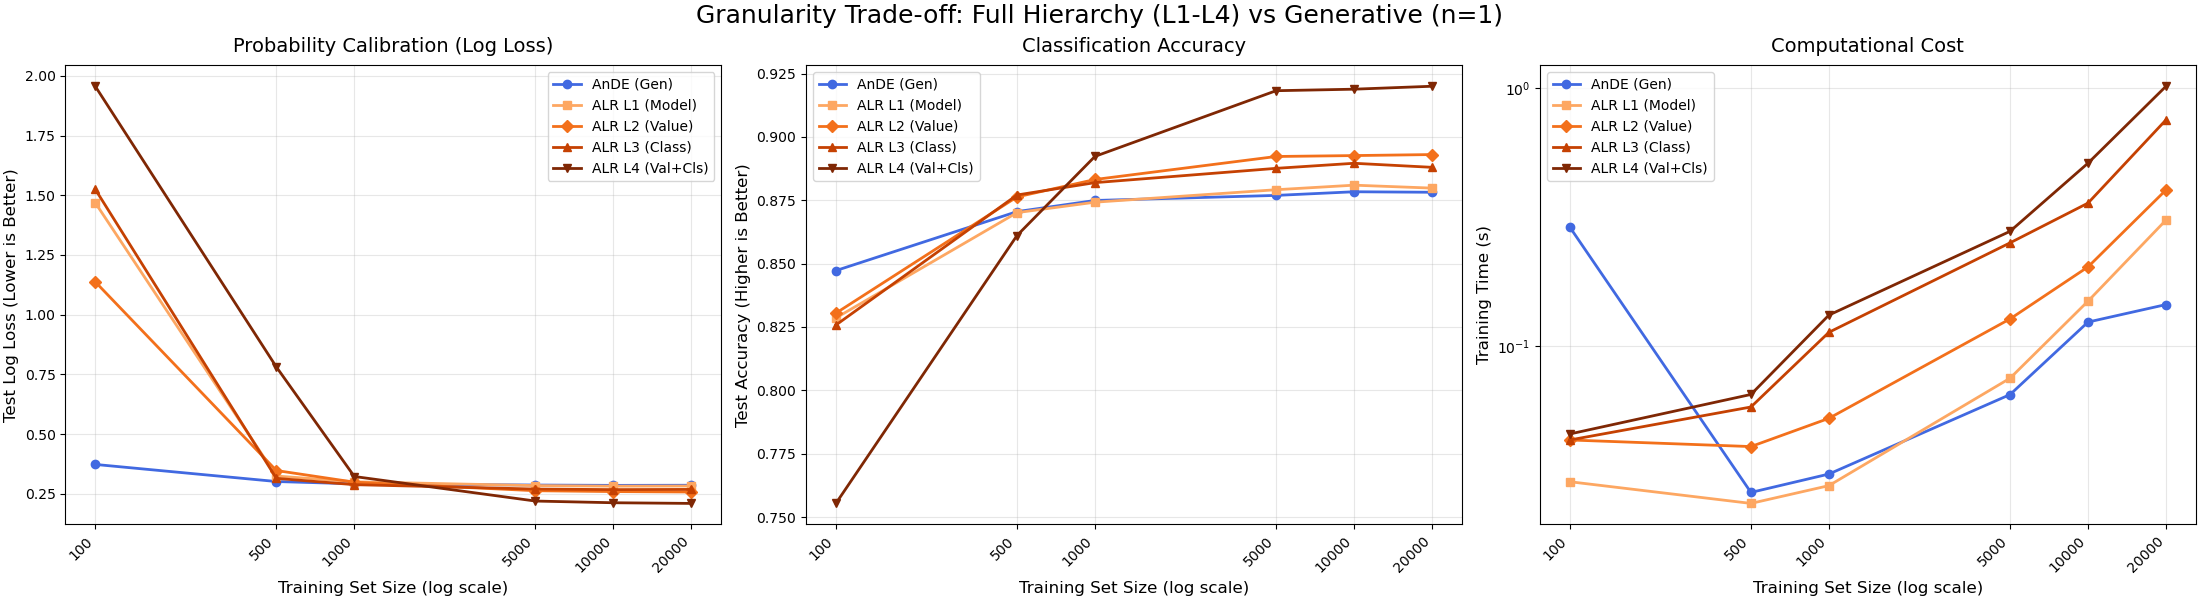
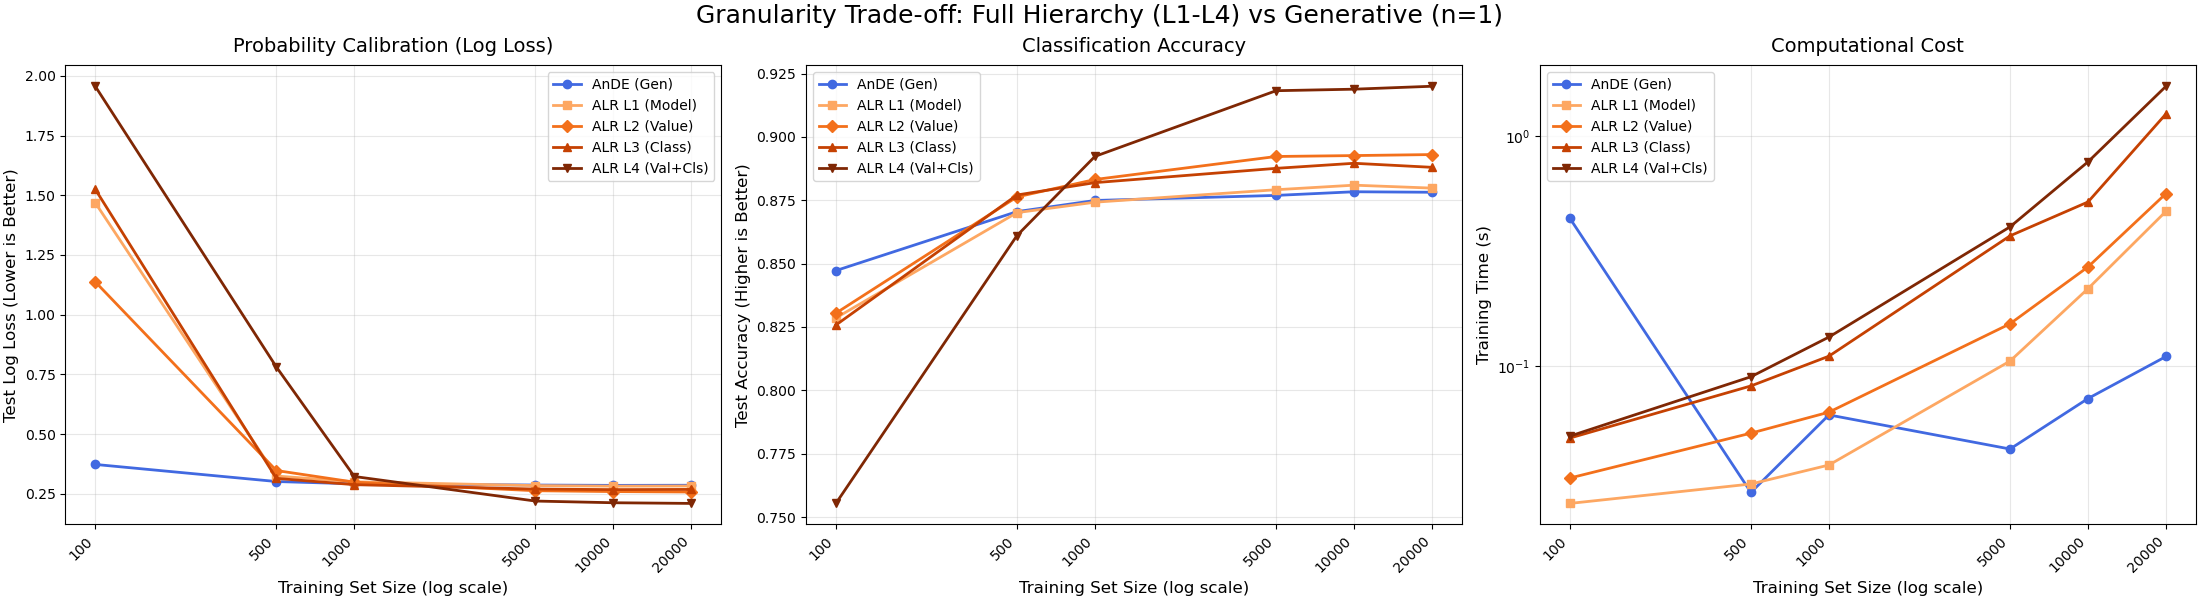
[ci skip] Share the label and category encodings across AnDE components
The ensemble now encodes the class labels and the categorical attributes once and passes them to every component, which fits its MixedNB on the child columns in place instead of copying and re-validating them. BernoulliNB counts are computed with bincount, without the one-hot label matrix. b830a51a96a3128ae280f7c58113b6197eafa5d8

diff --git a/sg_execution_times.html b/sg_execution_times.html
@@ -373,7 +373,7 @@
                   
   <section id="computation-times">
 <span id="sphx-glr-sg-execution-times"></span><h1>Computation times<a class="headerlink" href="#computation-times" title="Link to this heading">#</a></h1>
-<p><strong>00:37.035</strong> total execution time for 10 files <strong>from all galleries</strong>:</p>
+<p><strong>00:53.788</strong> total execution time for 10 files <strong>from all galleries</strong>:</p>
 <div class="docutils container">
 <style scoped>
 <link href="https://cdnjs.cloudflare.com/ajax/libs/twitter-bootstrap/5.3.0/css/bootstrap.min.css" rel="stylesheet" />
@@ -395,43 +395,43 @@ $(document).ready( function () {
 </thead>
 <tbody>
 <tr class="row-even"><td><p><a class="reference internal" href="auto_examples/09_plot_compare_ande_variants.html#sphx-glr-auto-examples-09-plot-compare-ande-variants-py"><span class="std std-ref">Data Efficiency &amp; Complexity: Generative vs. Hybrid Levels (L1-L4)</span></a> (<code class="docutils literal notranslate"><span class="pre">../examples/09_plot_compare_ande_variants.py</span></code>)</p></td>
-<td><p>00:35.061</p></td>
+<td><p>00:51.392</p></td>
 <td><p>0.0</p></td>
 </tr>
 <tr class="row-odd"><td><p><a class="reference internal" href="auto_examples/10_plot_compare_ande_interpretability.html#sphx-glr-auto-examples-10-plot-compare-ande-interpretability-py"><span class="std std-ref">Interpreting ALR: Automatic Feature Selection via Weights</span></a> (<code class="docutils literal notranslate"><span class="pre">../examples/10_plot_compare_ande_interpretability.py</span></code>)</p></td>
-<td><p>00:00.668</p></td>
+<td><p>00:00.738</p></td>
 <td><p>0.0</p></td>
 </tr>
 <tr class="row-even"><td><p><a class="reference internal" href="auto_examples/07_plot_a2de_xor_slice.html#sphx-glr-auto-examples-07-plot-a2de-xor-slice-py"><span class="std std-ref">Analytic View: 2D Slice of the 3D XOR Problem</span></a> (<code class="docutils literal notranslate"><span class="pre">../examples/07_plot_a2de_xor_slice.py</span></code>)</p></td>
-<td><p>00:00.268</p></td>
+<td><p>00:00.366</p></td>
 <td><p>0.0</p></td>
 </tr>
 <tr class="row-odd"><td><p><a class="reference internal" href="auto_examples/01_plot_gaussiannb_equivalence.html#sphx-glr-auto-examples-01-plot-gaussiannb-equivalence-py"><span class="std std-ref">MixedNB Equivalence with GaussianNB</span></a> (<code class="docutils literal notranslate"><span class="pre">../examples/01_plot_gaussiannb_equivalence.py</span></code>)</p></td>
-<td><p>00:00.239</p></td>
+<td><p>00:00.263</p></td>
 <td><p>0.0</p></td>
 </tr>
 <tr class="row-even"><td><p><a class="reference internal" href="auto_examples/04_plot_mixednb_vs_pipeline.html#sphx-glr-auto-examples-04-plot-mixednb-vs-pipeline-py"><span class="std std-ref">Handling Mixed Data Types with MixedNB</span></a> (<code class="docutils literal notranslate"><span class="pre">../examples/04_plot_mixednb_vs_pipeline.py</span></code>)</p></td>
-<td><p>00:00.190</p></td>
+<td><p>00:00.247</p></td>
 <td><p>0.0</p></td>
 </tr>
 <tr class="row-odd"><td><p><a class="reference internal" href="auto_examples/06_plot_aode_xor.html#sphx-glr-auto-examples-06-plot-aode-xor-py"><span class="std std-ref">Solving the XOR Problem: AnDE vs Naive Bayes</span></a> (<code class="docutils literal notranslate"><span class="pre">../examples/06_plot_aode_xor.py</span></code>)</p></td>
-<td><p>00:00.163</p></td>
+<td><p>00:00.214</p></td>
 <td><p>0.0</p></td>
 </tr>
 <tr class="row-even"><td><p><a class="reference internal" href="auto_examples/08_plot_a2de_xor_3d.html#sphx-glr-auto-examples-08-plot-a2de-xor-3d-py"><span class="std std-ref">3D Voxel-Cloud Visualization: XOR Structure</span></a> (<code class="docutils literal notranslate"><span class="pre">../examples/08_plot_a2de_xor_3d.py</span></code>)</p></td>
-<td><p>00:00.155</p></td>
+<td><p>00:00.196</p></td>
 <td><p>0.0</p></td>
 </tr>
 <tr class="row-odd"><td><p><a class="reference internal" href="auto_examples/05_plot_aode_mixed_demo.html#sphx-glr-auto-examples-05-plot-aode-mixed-demo-py"><span class="std std-ref">The Power of Mixed Data: Context-Dependent Logic</span></a> (<code class="docutils literal notranslate"><span class="pre">../examples/05_plot_aode_mixed_demo.py</span></code>)</p></td>
-<td><p>00:00.106</p></td>
+<td><p>00:00.131</p></td>
 <td><p>0.0</p></td>
 </tr>
 <tr class="row-even"><td><p><a class="reference internal" href="auto_examples/03_plot_categoricalnb_equivalence.html#sphx-glr-auto-examples-03-plot-categoricalnb-equivalence-py"><span class="std std-ref">MixedNB Equivalence with CategoricalNB</span></a> (<code class="docutils literal notranslate"><span class="pre">../examples/03_plot_categoricalnb_equivalence.py</span></code>)</p></td>
-<td><p>00:00.097</p></td>
+<td><p>00:00.123</p></td>
 <td><p>0.0</p></td>
 </tr>
 <tr class="row-odd"><td><p><a class="reference internal" href="auto_examples/02_plot_bernoullinb_equivalence.html#sphx-glr-auto-examples-02-plot-bernoullinb-equivalence-py"><span class="std std-ref">MixedNB Equivalence with BernoulliNB</span></a> (<code class="docutils literal notranslate"><span class="pre">../examples/02_plot_bernoullinb_equivalence.py</span></code>)</p></td>
-<td><p>00:00.089</p></td>
+<td><p>00:00.118</p></td>
 <td><p>0.0</p></td>
 </tr>
 </tbody>

diff --git a/auto_examples/sg_execution_times.html b/auto_examples/sg_execution_times.html
@@ -373,7 +373,7 @@
                   
   <section id="computation-times">
 <span id="sphx-glr-auto-examples-sg-execution-times"></span><h1>Computation times<a class="headerlink" href="#computation-times" title="Link to this heading">#</a></h1>
-<p><strong>00:37.035</strong> total execution time for 10 files <strong>from auto_examples</strong>:</p>
+<p><strong>00:53.788</strong> total execution time for 10 files <strong>from auto_examples</strong>:</p>
 <div class="docutils container">
 <style scoped>
 <link href="https://cdnjs.cloudflare.com/ajax/libs/twitter-bootstrap/5.3.0/css/bootstrap.min.css" rel="stylesheet" />
@@ -395,43 +395,43 @@ $(document).ready( function () {
 </thead>
 <tbody>
 <tr class="row-even"><td><p><a class="reference internal" href="09_plot_compare_ande_variants.html#sphx-glr-auto-examples-09-plot-compare-ande-variants-py"><span class="std std-ref">Data Efficiency &amp; Complexity: Generative vs. Hybrid Levels (L1-L4)</span></a> (<code class="docutils literal notranslate"><span class="pre">09_plot_compare_ande_variants.py</span></code>)</p></td>
-<td><p>00:35.061</p></td>
+<td><p>00:51.392</p></td>
 <td><p>0.0</p></td>
 </tr>
 <tr class="row-odd"><td><p><a class="reference internal" href="10_plot_compare_ande_interpretability.html#sphx-glr-auto-examples-10-plot-compare-ande-interpretability-py"><span class="std std-ref">Interpreting ALR: Automatic Feature Selection via Weights</span></a> (<code class="docutils literal notranslate"><span class="pre">10_plot_compare_ande_interpretability.py</span></code>)</p></td>
-<td><p>00:00.668</p></td>
+<td><p>00:00.738</p></td>
 <td><p>0.0</p></td>
 </tr>
 <tr class="row-even"><td><p><a class="reference internal" href="07_plot_a2de_xor_slice.html#sphx-glr-auto-examples-07-plot-a2de-xor-slice-py"><span class="std std-ref">Analytic View: 2D Slice of the 3D XOR Problem</span></a> (<code class="docutils literal notranslate"><span class="pre">07_plot_a2de_xor_slice.py</span></code>)</p></td>
-<td><p>00:00.268</p></td>
+<td><p>00:00.366</p></td>
 <td><p>0.0</p></td>
 </tr>
 <tr class="row-odd"><td><p><a class="reference internal" href="01_plot_gaussiannb_equivalence.html#sphx-glr-auto-examples-01-plot-gaussiannb-equivalence-py"><span class="std std-ref">MixedNB Equivalence with GaussianNB</span></a> (<code class="docutils literal notranslate"><span class="pre">01_plot_gaussiannb_equivalence.py</span></code>)</p></td>
-<td><p>00:00.239</p></td>
+<td><p>00:00.263</p></td>
 <td><p>0.0</p></td>
 </tr>
 <tr class="row-even"><td><p><a class="reference internal" href="04_plot_mixednb_vs_pipeline.html#sphx-glr-auto-examples-04-plot-mixednb-vs-pipeline-py"><span class="std std-ref">Handling Mixed Data Types with MixedNB</span></a> (<code class="docutils literal notranslate"><span class="pre">04_plot_mixednb_vs_pipeline.py</span></code>)</p></td>
-<td><p>00:00.190</p></td>
+<td><p>00:00.247</p></td>
 <td><p>0.0</p></td>
 </tr>
 <tr class="row-odd"><td><p><a class="reference internal" href="06_plot_aode_xor.html#sphx-glr-auto-examples-06-plot-aode-xor-py"><span class="std std-ref">Solving the XOR Problem: AnDE vs Naive Bayes</span></a> (<code class="docutils literal notranslate"><span class="pre">06_plot_aode_xor.py</span></code>)</p></td>
-<td><p>00:00.163</p></td>
+<td><p>00:00.214</p></td>
 <td><p>0.0</p></td>
 </tr>
 <tr class="row-even"><td><p><a class="reference internal" href="08_plot_a2de_xor_3d.html#sphx-glr-auto-examples-08-plot-a2de-xor-3d-py"><span class="std std-ref">3D Voxel-Cloud Visualization: XOR Structure</span></a> (<code class="docutils literal notranslate"><span class="pre">08_plot_a2de_xor_3d.py</span></code>)</p></td>
-<td><p>00:00.155</p></td>
+<td><p>00:00.196</p></td>
 <td><p>0.0</p></td>
 </tr>
 <tr class="row-odd"><td><p><a class="reference internal" href="05_plot_aode_mixed_demo.html#sphx-glr-auto-examples-05-plot-aode-mixed-demo-py"><span class="std std-ref">The Power of Mixed Data: Context-Dependent Logic</span></a> (<code class="docutils literal notranslate"><span class="pre">05_plot_aode_mixed_demo.py</span></code>)</p></td>
-<td><p>00:00.106</p></td>
+<td><p>00:00.131</p></td>
 <td><p>0.0</p></td>
 </tr>
 <tr class="row-even"><td><p><a class="reference internal" href="03_plot_categoricalnb_equivalence.html#sphx-glr-auto-examples-03-plot-categoricalnb-equivalence-py"><span class="std std-ref">MixedNB Equivalence with CategoricalNB</span></a> (<code class="docutils literal notranslate"><span class="pre">03_plot_categoricalnb_equivalence.py</span></code>)</p></td>
-<td><p>00:00.097</p></td>
+<td><p>00:00.123</p></td>
 <td><p>0.0</p></td>
 </tr>
 <tr class="row-odd"><td><p><a class="reference internal" href="02_plot_bernoullinb_equivalence.html#sphx-glr-auto-examples-02-plot-bernoullinb-equivalence-py"><span class="std std-ref">MixedNB Equivalence with BernoulliNB</span></a> (<code class="docutils literal notranslate"><span class="pre">02_plot_bernoullinb_equivalence.py</span></code>)</p></td>
-<td><p>00:00.089</p></td>
+<td><p>00:00.118</p></td>
 <td><p>0.0</p></td>
 </tr>
 </tbody>

diff --git a/auto_examples/10_plot_compare_ande_interpretability.html b/auto_examples/10_plot_compare_ande_interpretability.html
@@ -547,7 +547,7 @@ By ignoring noise, ALR achieves significantly lower Log Loss and higher Accuracy
 <a href="https://matplotlib.org/stable/api/_as_gen/matplotlib.pyplot.show.html#matplotlib.pyplot.show" title="matplotlib.pyplot.show" class="sphx-glr-backref-module-matplotlib-pyplot sphx-glr-backref-type-py-function"><span class="n">plt</span><span class="o">.</span><span class="n">show</span></a><span class="p">()</span>
 </pre></div>
 </div>
-<p class="sphx-glr-timing"><strong>Total running time of the script:</strong> (0 minutes 0.668 seconds)</p>
+<p class="sphx-glr-timing"><strong>Total running time of the script:</strong> (0 minutes 0.738 seconds)</p>
 <div class="sphx-glr-footer sphx-glr-footer-example docutils container" id="sphx-glr-download-auto-examples-10-plot-compare-ande-interpretability-py">
 <div class="sphx-glr-download sphx-glr-download-jupyter docutils container">
 <p><a class="reference download internal" download="" href="../_downloads/e95a27dd71ecd33214a7ce3ae605143f/10_plot_compare_ande_interpretability.ipynb"><code class="xref download docutils literal notranslate"><span class="pre">Download</span> <span class="pre">Jupyter</span> <span class="pre">notebook:</span> <span class="pre">10_plot_compare_ande_interpretability.ipynb</span></code></a></p>

diff --git a/auto_examples/04_plot_mixednb_vs_pipeline.html b/auto_examples/04_plot_mixednb_vs_pipeline.html
@@ -596,7 +596,7 @@ Matches the data generation process. (Acc: ~0.920).</p></li>
 <a href="https://matplotlib.org/stable/api/_as_gen/matplotlib.pyplot.show.html#matplotlib.pyplot.show" title="matplotlib.pyplot.show" class="sphx-glr-backref-module-matplotlib-pyplot sphx-glr-backref-type-py-function"><span class="n">plt</span><span class="o">.</span><span class="n">show</span></a><span class="p">()</span>
 </pre></div>
 </div>
-<p class="sphx-glr-timing"><strong>Total running time of the script:</strong> (0 minutes 0.190 seconds)</p>
+<p class="sphx-glr-timing"><strong>Total running time of the script:</strong> (0 minutes 0.247 seconds)</p>
 <div class="sphx-glr-footer sphx-glr-footer-example docutils container" id="sphx-glr-download-auto-examples-04-plot-mixednb-vs-pipeline-py">
 <div class="sphx-glr-download sphx-glr-download-jupyter docutils container">
 <p><a class="reference download internal" download="" href="../_downloads/5204dba96016a5865820642ba9f186c9/04_plot_mixednb_vs_pipeline.ipynb"><code class="xref download docutils literal notranslate"><span class="pre">Download</span> <span class="pre">Jupyter</span> <span class="pre">notebook:</span> <span class="pre">04_plot_mixednb_vs_pipeline.ipynb</span></code></a></p>

diff --git a/auto_examples/03_plot_categoricalnb_equivalence.html b/auto_examples/03_plot_categoricalnb_equivalence.html
@@ -536,7 +536,7 @@ dataset are all-close.</p>
 <a href="https://matplotlib.org/stable/api/_as_gen/matplotlib.pyplot.show.html#matplotlib.pyplot.show" title="matplotlib.pyplot.show" class="sphx-glr-backref-module-matplotlib-pyplot sphx-glr-backref-type-py-function"><span class="n">plt</span><span class="o">.</span><span class="n">show</span></a><span class="p">()</span>
 </pre></div>
 </div>
-<p class="sphx-glr-timing"><strong>Total running time of the script:</strong> (0 minutes 0.097 seconds)</p>
+<p class="sphx-glr-timing"><strong>Total running time of the script:</strong> (0 minutes 0.123 seconds)</p>
 <div class="sphx-glr-footer sphx-glr-footer-example docutils container" id="sphx-glr-download-auto-examples-03-plot-categoricalnb-equivalence-py">
 <div class="sphx-glr-download sphx-glr-download-jupyter docutils container">
 <p><a class="reference download internal" download="" href="../_downloads/00b2f84cc1022caf137b5f9bf85b5a7f/03_plot_categoricalnb_equivalence.ipynb"><code class="xref download docutils literal notranslate"><span class="pre">Download</span> <span class="pre">Jupyter</span> <span class="pre">notebook:</span> <span class="pre">03_plot_categoricalnb_equivalence.ipynb</span></code></a></p>

diff --git a/auto_examples/02_plot_bernoullinb_equivalence.html b/auto_examples/02_plot_bernoullinb_equivalence.html
@@ -531,7 +531,7 @@ dataset are all-close.</p>
 <a href="https://matplotlib.org/stable/api/_as_gen/matplotlib.pyplot.show.html#matplotlib.pyplot.show" title="matplotlib.pyplot.show" class="sphx-glr-backref-module-matplotlib-pyplot sphx-glr-backref-type-py-function"><span class="n">plt</span><span class="o">.</span><span class="n">show</span></a><span class="p">()</span>
 </pre></div>
 </div>
-<p class="sphx-glr-timing"><strong>Total running time of the script:</strong> (0 minutes 0.089 seconds)</p>
+<p class="sphx-glr-timing"><strong>Total running time of the script:</strong> (0 minutes 0.118 seconds)</p>
 <div class="sphx-glr-footer sphx-glr-footer-example docutils container" id="sphx-glr-download-auto-examples-02-plot-bernoullinb-equivalence-py">
 <div class="sphx-glr-download sphx-glr-download-jupyter docutils container">
 <p><a class="reference download internal" download="" href="../_downloads/e9f4ce65f5b2f0371d2dc680d3798721/02_plot_bernoullinb_equivalence.ipynb"><code class="xref download docutils literal notranslate"><span class="pre">Download</span> <span class="pre">Jupyter</span> <span class="pre">notebook:</span> <span class="pre">02_plot_bernoullinb_equivalence.ipynb</span></code></a></p>

diff --git a/auto_examples/06_plot_aode_xor.html b/auto_examples/06_plot_aode_xor.html
@@ -523,7 +523,7 @@ As shown in the plot, AnDE successfully captures the XOR structure.</p>
 <a href="https://matplotlib.org/stable/api/_as_gen/matplotlib.pyplot.show.html#matplotlib.pyplot.show" title="matplotlib.pyplot.show" class="sphx-glr-backref-module-matplotlib-pyplot sphx-glr-backref-type-py-function"><span class="n">plt</span><span class="o">.</span><span class="n">show</span></a><span class="p">()</span>
 </pre></div>
 </div>
-<p class="sphx-glr-timing"><strong>Total running time of the script:</strong> (0 minutes 0.163 seconds)</p>
+<p class="sphx-glr-timing"><strong>Total running time of the script:</strong> (0 minutes 0.214 seconds)</p>
 <div class="sphx-glr-footer sphx-glr-footer-example docutils container" id="sphx-glr-download-auto-examples-06-plot-aode-xor-py">
 <div class="sphx-glr-download sphx-glr-download-jupyter docutils container">
 <p><a class="reference download internal" download="" href="../_downloads/96a7d4f11d7792f949e26ae9dac9121f/06_plot_aode_xor.ipynb"><code class="xref download docutils literal notranslate"><span class="pre">Download</span> <span class="pre">Jupyter</span> <span class="pre">notebook:</span> <span class="pre">06_plot_aode_xor.ipynb</span></code></a></p>

diff --git a/auto_examples/07_plot_a2de_xor_slice.html b/auto_examples/07_plot_a2de_xor_slice.html
@@ -516,7 +516,7 @@ sharp boundaries. Accuracy ~0.965 (Solved).</p></li>
 <a href="https://matplotlib.org/stable/api/_as_gen/matplotlib.pyplot.show.html#matplotlib.pyplot.show" title="matplotlib.pyplot.show" class="sphx-glr-backref-module-matplotlib-pyplot sphx-glr-backref-type-py-function"><span class="n">plt</span><span class="o">.</span><span class="n">show</span></a><span class="p">()</span>
 </pre></div>
 </div>
-<p class="sphx-glr-timing"><strong>Total running time of the script:</strong> (0 minutes 0.268 seconds)</p>
+<p class="sphx-glr-timing"><strong>Total running time of the script:</strong> (0 minutes 0.366 seconds)</p>
 <div class="sphx-glr-footer sphx-glr-footer-example docutils container" id="sphx-glr-download-auto-examples-07-plot-a2de-xor-slice-py">
 <div class="sphx-glr-download sphx-glr-download-jupyter docutils container">
 <p><a class="reference download internal" download="" href="../_downloads/eae9308ffcf6dc91e180db73ab45de6b/07_plot_a2de_xor_slice.ipynb"><code class="xref download docutils literal notranslate"><span class="pre">Download</span> <span class="pre">Jupyter</span> <span class="pre">notebook:</span> <span class="pre">07_plot_a2de_xor_slice.ipynb</span></code></a></p>

diff --git a/auto_examples/01_plot_gaussiannb_equivalence.html b/auto_examples/01_plot_gaussiannb_equivalence.html
@@ -511,7 +511,7 @@ dataset are all-close.</p>
 <a href="https://matplotlib.org/stable/api/_as_gen/matplotlib.pyplot.show.html#matplotlib.pyplot.show" title="matplotlib.pyplot.show" class="sphx-glr-backref-module-matplotlib-pyplot sphx-glr-backref-type-py-function"><span class="n">plt</span><span class="o">.</span><span class="n">show</span></a><span class="p">()</span>
 </pre></div>
 </div>
-<p class="sphx-glr-timing"><strong>Total running time of the script:</strong> (0 minutes 0.239 seconds)</p>
+<p class="sphx-glr-timing"><strong>Total running time of the script:</strong> (0 minutes 0.263 seconds)</p>
 <div class="sphx-glr-footer sphx-glr-footer-example docutils container" id="sphx-glr-download-auto-examples-01-plot-gaussiannb-equivalence-py">
 <div class="sphx-glr-download sphx-glr-download-jupyter docutils container">
 <p><a class="reference download internal" download="" href="../_downloads/50ac26187f57d59b430be2a6507ec4d5/01_plot_gaussiannb_equivalence.ipynb"><code class="xref download docutils literal notranslate"><span class="pre">Download</span> <span class="pre">Jupyter</span> <span class="pre">notebook:</span> <span class="pre">01_plot_gaussiannb_equivalence.ipynb</span></code></a></p>

diff --git a/auto_examples/05_plot_aode_mixed_demo.html b/auto_examples/05_plot_aode_mixed_demo.html
@@ -568,7 +568,7 @@ changes completely depending on the mode.</p>
 <a href="https://matplotlib.org/stable/api/_as_gen/matplotlib.pyplot.show.html#matplotlib.pyplot.show" title="matplotlib.pyplot.show" class="sphx-glr-backref-module-matplotlib-pyplot sphx-glr-backref-type-py-function"><span class="n">plt</span><span class="o">.</span><span class="n">show</span></a><span class="p">()</span>
 </pre></div>
 </div>
-<p class="sphx-glr-timing"><strong>Total running time of the script:</strong> (0 minutes 0.106 seconds)</p>
+<p class="sphx-glr-timing"><strong>Total running time of the script:</strong> (0 minutes 0.131 seconds)</p>
 <div class="sphx-glr-footer sphx-glr-footer-example docutils container" id="sphx-glr-download-auto-examples-05-plot-aode-mixed-demo-py">
 <div class="sphx-glr-download sphx-glr-download-jupyter docutils container">
 <p><a class="reference download internal" download="" href="../_downloads/1c2630588179545e8c0b15891782aad8/05_plot_aode_mixed_demo.ipynb"><code class="xref download docutils literal notranslate"><span class="pre">Download</span> <span class="pre">Jupyter</span> <span class="pre">notebook:</span> <span class="pre">05_plot_aode_mixed_demo.ipynb</span></code></a></p>

diff --git a/auto_examples/09_plot_compare_ande_variants.html b/auto_examples/09_plot_compare_ande_variants.html
@@ -618,7 +618,7 @@ Seed 123, N=20000 done.
 <a href="https://matplotlib.org/stable/api/_as_gen/matplotlib.pyplot.show.html#matplotlib.pyplot.show" title="matplotlib.pyplot.show" class="sphx-glr-backref-module-matplotlib-pyplot sphx-glr-backref-type-py-function"><span class="n">plt</span><span class="o">.</span><span class="n">show</span></a><span class="p">()</span>
 </pre></div>
 </div>
-<p class="sphx-glr-timing"><strong>Total running time of the script:</strong> (0 minutes 35.061 seconds)</p>
+<p class="sphx-glr-timing"><strong>Total running time of the script:</strong> (0 minutes 51.392 seconds)</p>
 <div class="sphx-glr-footer sphx-glr-footer-example docutils container" id="sphx-glr-download-auto-examples-09-plot-compare-ande-variants-py">
 <div class="sphx-glr-download sphx-glr-download-jupyter docutils container">
 <p><a class="reference download internal" download="" href="../_downloads/bd452b38dcd30f28fe194ae785794a9e/09_plot_compare_ande_variants.ipynb"><code class="xref download docutils literal notranslate"><span class="pre">Download</span> <span class="pre">Jupyter</span> <span class="pre">notebook:</span> <span class="pre">09_plot_compare_ande_variants.ipynb</span></code></a></p>

diff --git a/auto_examples/08_plot_a2de_xor_3d.html b/auto_examples/08_plot_a2de_xor_3d.html
@@ -549,7 +549,7 @@ Generating volumetric grid...
 <a href="https://matplotlib.org/stable/api/_as_gen/matplotlib.pyplot.show.html#matplotlib.pyplot.show" title="matplotlib.pyplot.show" class="sphx-glr-backref-module-matplotlib-pyplot sphx-glr-backref-type-py-function"><span class="n">plt</span><span class="o">.</span><span class="n">show</span></a><span class="p">()</span>
 </pre></div>
 </div>
-<p class="sphx-glr-timing"><strong>Total running time of the script:</strong> (0 minutes 0.155 seconds)</p>
+<p class="sphx-glr-timing"><strong>Total running time of the script:</strong> (0 minutes 0.196 seconds)</p>
 <div class="sphx-glr-footer sphx-glr-footer-example docutils container" id="sphx-glr-download-auto-examples-08-plot-a2de-xor-3d-py">
 <div class="sphx-glr-download sphx-glr-download-jupyter docutils container">
 <p><a class="reference download internal" download="" href="../_downloads/bea786fddc0b9d753515283ddb0c4026/08_plot_a2de_xor_3d.ipynb"><code class="xref download docutils literal notranslate"><span class="pre">Download</span> <span class="pre">Jupyter</span> <span class="pre">notebook:</span> <span class="pre">08_plot_a2de_xor_3d.ipynb</span></code></a></p>
